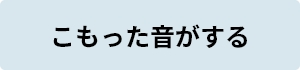
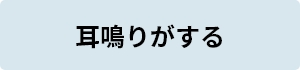
Add files via upload

Changed region(s): [[0.15, 0.3429, 0.84, 0.7143]]

diff --git a/index.html b/index.html
@@ -21,7 +21,7 @@
 			<form name="form1" action="">
 				<div class="otoderu">
 					<h2>どの音が聞こえましたか？</h2>
-					<p>ボタンをクリックすると５秒間音が鳴ります</p>
+					<p>ボタンをクリックすると５秒間音が鳴ります。聞こえた音はすべて選択してください。</p>
 					<div class="flex">
 						<div class="q">
 						<!-- テキストボタンの場合 -->
@@ -68,21 +68,21 @@
 						</div>
 					</div>
 				</div>
-				<div class="text-only">
-					<h2>どのように聞こえましたか？</h2>
-					<div class="flex">
-						<div class="q">
-						<!-- テキストボタンの場合 -->
-							<p><img src="img/btn/q1.jpg" alt="こもった音がする"></p> 
-						</div>
-						<div class="c">
-							<input type="checkbox" id="Checkbox4" class="scales" name="scales" />
-						</div>
+				<div class="flex">
+					<div class="q">
+					<!-- テキストボタンの場合 -->
+						<p><img src="img/btn/q21.jpg" alt="どの音も聞こえない"></p> 
 					</div>
+					<div class="c">
+						<input type="checkbox" id="Checkbox4" class="scales" name="scales" />
+					</div>
+				</div>
+				<div class="text-only">
+					<h2>どのように聞こえましたか？<span>複数選択可</span></h2>
 					<div class="flex">
 						<div class="q">
 						<!-- テキストボタンの場合 -->
-							<p><img src="img/btn/q2.jpg" alt="耳鳴りがする"></p> 
+							<p><img src="img/btn/q11.jpg" alt="こもった音がする"></p> 
 						</div>
 						<div class="c">
 							<input type="checkbox" id="Checkbox5" class="scales" name="scales" />
@@ -91,7 +91,7 @@
 					<div class="flex">
 						<div class="q">
 						<!-- テキストボタンの場合 -->
-							<p><img src="img/btn/q3.jpg" alt="めまいがする"></p> 
+							<p><img src="img/btn/q2.jpg" alt="音が二重にきこえる"></p> 
 						</div>
 						<div class="c">
 							<input type="checkbox" id="Checkbox6" class="scales" name="scales" />
@@ -100,7 +100,7 @@
 					<div class="flex">
 						<div class="q">
 						<!-- テキストボタンの場合 -->
-							<p><img src="img/btn/q4.jpg" alt="吐き気がする"></p> 
+							<p><img src="img/btn/q3.jpg" alt="片耳からのみしか聞こえない"></p> 
 						</div>
 						<div class="c">
 							<input type="checkbox" id="Checkbox7" class="scales" name="scales" />
@@ -109,10 +109,58 @@
 					<div class="flex">
 						<div class="q">
 						<!-- テキストボタンの場合 -->
-							<p><img src="img/btn/q5.jpg" alt="過去にも繰り返し耳の不調を感じたことがある"></p> 
+							<p><img src="img/btn/q14.jpg" alt="特に症状はない"></p> 
 						</div>
 						<div class="c">
 							<input type="checkbox" id="Checkbox8" class="scales" name="scales" />
+						</div>
+					</div>
+				</div>
+				<div class="text-only">
+					<h2>他にどんな症状がありますか？<span>複数選択可</span></h2>
+					<div class="flex">
+						<div class="q">
+						<!-- テキストボタンの場合 -->
+							<p><img src="img/btn/q1.jpg" alt="耳鳴りがする"></p> 
+						</div>
+						<div class="c">
+							<input type="checkbox" id="Checkbox9" class="scales" name="scales" />
+						</div>
+					</div>
+					<div class="flex">
+						<div class="q">
+						<!-- テキストボタンの場合 -->
+							<p><img src="img/btn/q2.jpg" alt="めまいがする"></p> 
+						</div>
+						<div class="c">
+							<input type="checkbox" id="Checkbox10" class="scales" name="scales" />
+						</div>
+					</div>
+					<div class="flex">
+						<div class="q">
+						<!-- テキストボタンの場合 -->
+							<p><img src="img/btn/q3.jpg" alt="吐き気がする"></p> 
+						</div>
+						<div class="c">
+							<input type="checkbox" id="Checkbox11" class="scales" name="scales" />
+						</div>
+					</div>
+					<div class="flex">
+						<div class="q">
+						<!-- テキストボタンの場合 -->
+							<p><img src="img/btn/q5.jpg" alt="過去にも繰り返し耳の不調を感じたことがある"></p> 
+						</div>
+						<div class="c">
+							<input type="checkbox" id="Checkbox12" class="scales" name="scales" />
+						</div>
+					</div>
+					<div class="flex">
+						<div class="q">
+						<!-- テキストボタンの場合 -->
+							<p><img src="img/btn/q14.jpg" alt="特に症状はない"></p> 
+						</div>
+						<div class="c">
+							<input type="checkbox" id="Checkbox13" class="scales" name="scales" />
 						</div>
 					</div>
 				</div>
@@ -135,15 +183,20 @@
 		let check1 = document.form1.Checkbox1.checked; // 250hzの音が聞こえたか
 		let check2 = document.form1.Checkbox2.checked; // 500hzの音が聞こえたか
 		let check3 = document.form1.Checkbox3.checked; // 4000hzの音が聞こえたか
-		let check4 = document.form1.Checkbox4.checked; // こもった音がするか
-		let check5 = document.form1.Checkbox5.checked; // 耳鳴りがするか
-		let check6 = document.form1.Checkbox6.checked; // めまいがするか
-		let check7 = document.form1.Checkbox7.checked; // 吐き気がするか
-		let check8 = document.form1.Checkbox8.checked; // 過去にも繰り返し耳の不調を感じたことがあるか
+		let check4 = document.form1.Checkbox4.checked; // どの音も聞こえないか
+		let check5 = document.form1.Checkbox5.checked; // こもった音がするか
+		let check6 = document.form1.Checkbox6.checked; // 音が二重に聞こえるか
+		let check7 = document.form1.Checkbox7.checked; // かた耳からのみしか聞こえないか
+		let check8 = document.form1.Checkbox8.checked; // 特に症状はないか
+		let check9 = document.form1.Checkbox9.checked; // 耳鳴りがするか
+		let check10 = document.form1.Checkbox10.checked; // めまいがするか
+		let check11 = document.form1.Checkbox11.checked; // 吐き気がするか
+		let check12 = document.form1.Checkbox12.checked; // 過去にも繰り返し耳の不調を感じたことがあるか
+		let check13 = document.form1.Checkbox13.checked; // 特に症状はないか
 
 		// どの音も聞こえない、または、こもった音がする、耳鳴りがする、めまいがする、吐き気がするいずれかの症状がある場合、
 		// 'big.html'にリダイレクトします。
-		if (!(check1 && check2 && check3) || (check4 || check5 || check6 || check7 || check8)) {
+		if (!(check1 && check2 && check3) || (check4 || check5 || check6 || check7 || check9 || check10 || check11 || check12)) {
 		window.location.href = 'big.html';
 		} else {
 		// それ以外の場合、'small.html'にリダイレクトします。

diff --git a/css/style.css b/css/style.css
@@ -31,6 +31,11 @@
 	margin-top: 8%;
 	line-height: 0;
 }
+#kikoere h2 span {
+	font-size: 24px;
+	font-weight: bold;
+	padding-left: 5%;
+}
 #kikoere #cont02 p{
 	font-size: 24px;
 }
@@ -74,7 +79,7 @@
 }
 #kikoere #cont02 .q {
 	max-width: 300px;
-	width: 80%;
+	width: 90%;
 }
 #kikoere #cont02 .otoderu .q img {
 	width: 100%;
@@ -247,26 +252,15 @@ input[type="checkbox"]:checked::after {
 
 @media screen and (max-width: 959px) {
 	/* 959px以下に適用されるCSS（タブレット用） */
-	
-	#kikoere #cont02 .look a{
+	/*#kikoere #cont02 .look a{
 		padding-top: 10px;
 		padding-bottom: 10px;
 		padding-left: 70px;
 		padding-right: 70px;
 		font-size: 21px;
-	}
+	}*/
 }
-@media screen and (max-width: 480px) {
-	/* 480px以下に適用されるCSS（スマホ用） */
-	
-	#kikoere #cont02 .look a{
-		padding-top: 5px;
-		padding-bottom: 5px;
-		padding-left: 30px;
-		padding-right: 30px;
-		font-size: 14px;
-	}
-}
+
 
 
 /*nextページ*/
@@ -292,8 +286,8 @@ input[type="checkbox"]:checked::after {
 }
 @media screen and (max-width: 1065px) {
 	/* 1065px以下に適用されるCSS（タブレット用） */
-	
 	#cd {
 		font-size: calc(100vw / 6);
 	}
 }
+
